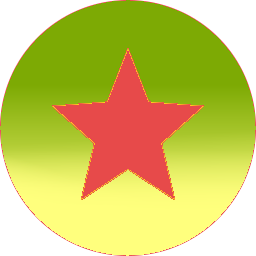
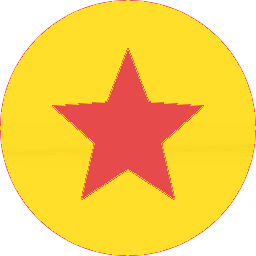
updated page added numbers.png files update star images file

diff --git a/style.css b/style.css
@@ -208,6 +208,7 @@
 }
 
 .submit-button {
+    border-bottom: 3px solid rgba(255, 35, 35, 0.397);
     margin: 10px 0px 10px 0px;
     border-radius: 8px;
     font-size: 20px;
@@ -216,6 +217,11 @@
     background-color: rgb(255, 189, 26);
     position: relative;
     z-index: 2;
+}
+
+.submit-button:hover {
+    background-color: rgb(255, 223, 41);
+    color: maroon;   
 }
 
 .d1-form input {
@@ -267,8 +273,9 @@
     width: 90px;
     height: 90px;
     padding: 20px;
-    border: 2px solid;
+    border-bottom: 2px solid gray;
     border-radius: 50%;
+    background-color: rgb(238, 237, 237);
 }
 
 
@@ -360,10 +367,11 @@
     width: 50px;
     height: 50px;
     border-radius: 50%;
+    border-bottom: 2px solid gray;
 }
 
 .d4-fieldset {
-    background-color: lightgray;
+    background-color: rgb(231, 227, 227);
     border: lightgray;
     padding: 10px 10px 30px 10px;
 }
@@ -408,13 +416,14 @@
 
 .div5-2 p {
     margin: 20px 40px 50px 40px;
-    display: inline-block;
+    display: block;
 }
 
 .div5-2-images {
     width: 230px;
     height: 230px;
 }
+
 
 /*
     div 6 started from here
@@ -475,7 +484,7 @@
     z-index: 11;
     display: inline-block;
     margin: 0px 10px 30px 10px;
-    width: 115px;
+    width: 120px;
     height: 130px;
     padding: 20px;
     border-radius: 50%;
@@ -483,7 +492,7 @@
     background-color: white;
 }
 
-.div-6a-fieldset legend,
+/*.div-6a-fieldset legend,
 .div-6b-fieldset legend,
 .div-6c-fieldset legend,
 .div-6d-fieldset legend,
@@ -499,6 +508,16 @@
     height: 35px;
     margin: 5px 0px 0px 0px;
     display: inline-block;
+} */
+
+.div-6a-fieldset legend img,
+.div-6b-fieldset legend img,
+.div-6c-fieldset legend img,
+.div-6d-fieldset legend img,
+.div-6e-fieldset legend img,
+.div-6f-fieldset legend img {
+    width: 40px;
+    height: 40px;
 }
 
 .div-6a-img,
@@ -510,7 +529,7 @@
     display: inline-block;
     width: 70px;
     height: 70px;
-    margin: 2px 0px 0px 0px;
+    margin: 17px 0px 0px 0px;
 }
 
 .d6-last-p {
@@ -732,14 +751,14 @@
     display: inline-block;
     font-size: 40px;
     border-radius: 50%;
-    padding: 50px;
+    padding: 50px 55px 50px 45px;
     height: 50px;
     width: 50px;
     position: absolute;
     z-index: 3;
     top: 0px;
     left: 0%;
-    margin: 30px;
+    margin:  32px;
     color: orange;
     font-weight: bold;
 }
@@ -809,14 +828,14 @@
     display: inline-block;
     font-size: 40px;
     border-radius: 50%;
-    padding: 50px;
+    padding: 50px 55px 50px 45px;
     height: 50px;
     width: 50px;
     position: absolute;
     z-index: 3;
     top: 0px;
     left: 0%;
-    margin: 30px;
+    margin:  32px;
     color: rgb(219, 65, 65);
     font-weight: bold;
 }
@@ -870,14 +889,14 @@
     display: inline-block;
     font-size: 40px;
     border-radius: 50%;
-    padding: 50px;
+    padding: 50px 55px 50px 45px;
     height: 50px;
     width: 50px;
     position: absolute;
     z-index: 3;
     top: 0px;
     left: 0%;
-    margin: 30px;
+    margin:  32px ;
     color: rgb(125, 170, 42);
     font-weight: bold;
 }
@@ -893,8 +912,6 @@
 
 }
 
-.d8-d-div {
-}
 
 .d8-d-div-p {
     border: 3px solid rgb(42, 41, 38);
@@ -908,7 +925,6 @@
     position: relative;
     z-index: 2;
     margin: 13px 23px 13px 19px;
-
 }
 
 .d8-d-div-p2 {
@@ -931,14 +947,14 @@
     display: inline-block;
     font-size: 40px;
     border-radius: 50%;
-    padding: 50px;
+    padding: 50px 55px 50px 45px;
     height: 50px;
     width: 50px;
     position: absolute;
     z-index: 3;
     top: 0px;
     left: 0%;
-    margin: 30px;
+    margin: 32px;
     color: rgb(54, 52, 48);
     font-weight: bold;
 }
@@ -998,6 +1014,7 @@
 }
 
 .d9-submit-button {
+    border-bottom: 3px solid rgba(255, 35, 35, 0.397);
     margin: 10px 0px 10px 0px;
     border-radius: 8px;
     font-size: 20px;
@@ -1006,6 +1023,11 @@
     background-color: rgb(255, 189, 26);
     color: black;
 }
+
+.d9-submit-button:hover {
+    background-color: rgb(255, 223, 41);
+    color: maroon;  
+} 
 
 
 .d9-last-p {
@@ -1142,7 +1164,7 @@
     display: inline-block;
     font-size: 25px;
     font-weight: bold;
-    margin: 67px 0px 0px 0px;
+    margin: 63px 0px 0px 0px;
     letter-spacing: 0.3mm;
 }
 

diff --git a/Portfolio-big -page.html b/Portfolio-big -page.html
@@ -97,6 +97,7 @@
             <input type="radio" name="button" id="slide3">
 
                     </form>
+                    <br>
 
         </div>
 
@@ -388,7 +389,7 @@
 
                     <fieldset class="div-6a-fieldset">
 
-                        <legend> 1 </legend>
+                        <legend> <img src="images/numbers-1-10/1.png" alt=""> </legend>
 
                         <img src="images/div-6-images/mobile-icon.png" alt="" class="div-6a-img">
 
@@ -409,7 +410,7 @@
 
                     <fieldset class="div-6b-fieldset">
 
-                        <legend> 2 </legend>
+                        <legend> <img src="images/numbers-1-10/2.png" alt=""> </legend>
 
                         <img src="images/div-6-images/consultation.png" alt="" class="div-6b-img">
 
@@ -430,7 +431,7 @@
 
                     <fieldset class="div-6c-fieldset">
 
-                        <legend> 3 </legend>
+                        <legend> <img src="images/numbers-1-10/3.png" alt=""> </legend>
 
                         <img src="images/div-6-images/planning.png" alt="" class="div-6c-img">
 
@@ -451,7 +452,7 @@
 
                     <fieldset class="div-6d-fieldset">
 
-                        <legend> 4 </legend>
+                        <legend> <img src="images/numbers-1-10/4.png" alt=""> </legend>
 
                         <img src="images/div-6-images/work-progress.png" alt="" class="div-6d-img">
 
@@ -472,7 +473,7 @@
 
                     <fieldset class="div-6e-fieldset">
 
-                        <legend> 5 </legend>
+                        <legend> <img src="images/numbers-1-10/5.png" alt=""> </legend>
 
                         <img src="images/div-6-images/correcting.png" alt="" class="div-6e-img">
 
@@ -493,7 +494,7 @@
 
                     <fieldset class="div-6f-fieldset">
 
-                        <legend> 6 </legend>
+                        <legend> <img src="images/numbers-1-10/6.png" alt=""> </legend>
 
                         <img src="images/div-6-images/deleiver.png" alt="" class="div-6f-img">
 
@@ -535,6 +536,7 @@
                 <br>
                 eirmod tempor invidunt ut labour et dolore magna aliquyam erat</p>
 
+            <br>
             <br>
 
 
@@ -849,6 +851,7 @@
         <div class="portfolio-div-10">
 
             <br>
+            <br>
 
             <p class="portfolio-div-10-p1">
                 <font class="black"> OUR </font>
@@ -915,7 +918,7 @@
                 <br>
 
                 <p class="foot-a1-copyright">
-                    Panacloud 2019
+                    © Panacloud 2019
                 </p>
 
             </div>
